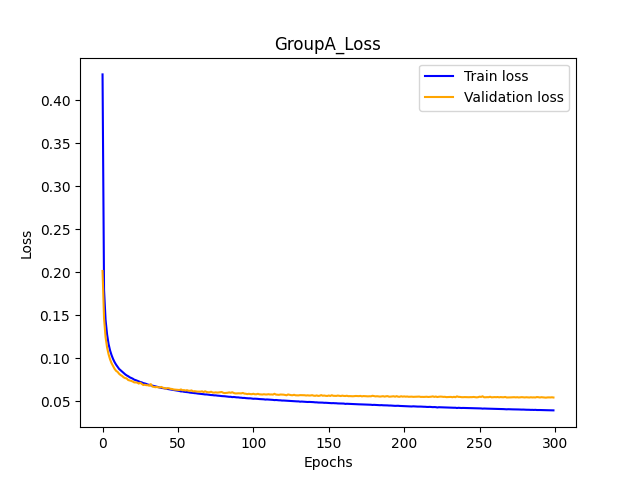
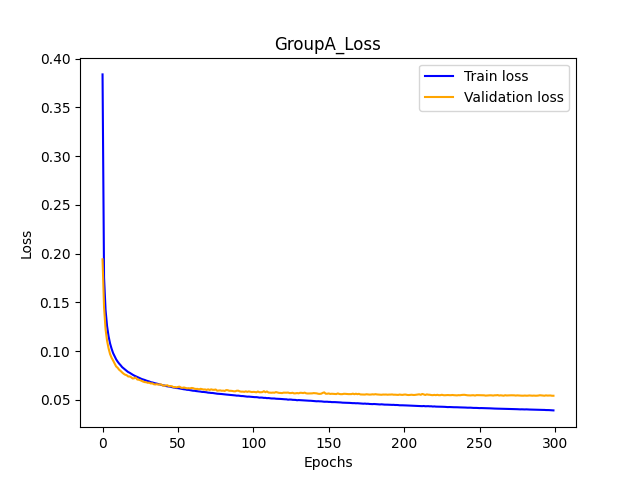
Save space for one-hot encoding

diff --git a/Lab2/GroupA/main.py b/Lab2/GroupA/main.py
@@ -5,13 +5,13 @@ import json
 TRAIN_FILE_PATH = './Group_A_train.csv'
 TEST_FILE_PATH = './Group_A_test.csv'
 OUTPUT_DIR = './output/'
-NUM_CLASSES = 10
+CLASSES = [0, 1, 8, 9]
 NUM_EPOCHS = 300
 BATCH_SIZE = 40
 
 class SoftmaxRegression:
     def __init__(self, input_size, num_classes, learning_rate=0.01):
-        self.W = np.random.randn(input_size, num_classes) * 0.01
+        self.W = np.zeros((input_size, num_classes))
         self.b = np.zeros((1, num_classes))
         self.learning_rate = learning_rate
         self.train_loss_history = []
@@ -119,7 +119,7 @@ def load_and_process_data(train_file, test_file):
 def label_to_one_hot(labels, num_classes):
     one_hot = np.zeros((labels.shape[0], num_classes))
     for idx, label in enumerate(labels):
-        one_hot[idx, label] = 1
+        one_hot[idx, CLASSES.index(label)] = 1
     return one_hot
 
 def split_data(x, y, train_ratio=0.8):
@@ -181,12 +181,12 @@ def save_final_results(results, predictions, filename='output.json'):
 if __name__ == '__main__':
     np.random.seed(123)
     x_train, y_train, x_test = load_and_process_data(TRAIN_FILE_PATH, TEST_FILE_PATH)
-    y_train_one_hot = label_to_one_hot(y_train, NUM_CLASSES)
+    y_train_one_hot = label_to_one_hot(y_train, len(CLASSES))
     x_train_split, y_train_split, x_val_split, y_val_split = split_data(x_train, y_train_one_hot, train_ratio=0.8)
 
     input_size = x_train.shape[1]
 
-    model = SoftmaxRegression(input_size, NUM_CLASSES, 0.01)
+    model = SoftmaxRegression(input_size, len(CLASSES), 0.01)
     model.train(x_train_split, y_train_split, x_val_split, y_val_split, NUM_EPOCHS, BATCH_SIZE)
 
     plot_draw(model.train_loss_history, model.val_loss_history, model.train_acc_history, model.val_acc_history)
@@ -197,6 +197,7 @@ if __name__ == '__main__':
     final_val_acc = model.val_acc_history[-1]
 
     predictions = model.predict(x_test).tolist()
+    predictions = [CLASSES[p] for p in predictions]  # 映射回原始標籤
 
     save_final_results({
         'learning_rate': model.learning_rate,
@@ -207,7 +208,3 @@ if __name__ == '__main__':
         'final_train_loss': final_train_loss,
         'final_val_loss': final_val_loss,
     }, predictions)
-
-
-
-

diff --git a/Lab2/GroupB/main.py b/Lab2/GroupB/main.py
@@ -5,13 +5,13 @@ import json
 TRAIN_FILE_PATH = './Group_B_train.csv'
 TEST_FILE_PATH = './Group_B_test.csv'
 OUTPUT_DIR = './output/'
-NUM_CLASSES = 10
+CLASSES = [0, 2, 4, 6]
 NUM_EPOCHS = 300
 BATCH_SIZE = 40
 
 class SoftmaxRegression:
     def __init__(self, input_size, num_classes, learning_rate=0.01):
-        self.W = np.random.randn(input_size, num_classes) * 0.01
+        self.W = np.zeros((input_size, num_classes))
         self.b = np.zeros((1, num_classes))
         self.learning_rate = learning_rate
         self.train_loss_history = []
@@ -119,7 +119,7 @@ def load_and_process_data(train_file, test_file):
 def label_to_one_hot(labels, num_classes):
     one_hot = np.zeros((labels.shape[0], num_classes))
     for idx, label in enumerate(labels):
-        one_hot[idx, label] = 1
+        one_hot[idx, CLASSES.index(label)] = 1
     return one_hot
 
 def split_data(x, y, train_ratio=0.8):
@@ -181,12 +181,12 @@ def save_final_results(results, predictions, filename='output.json'):
 if __name__ == '__main__':
     np.random.seed(123)
     x_train, y_train, x_test = load_and_process_data(TRAIN_FILE_PATH, TEST_FILE_PATH)
-    y_train_one_hot = label_to_one_hot(y_train, NUM_CLASSES)
+    y_train_one_hot = label_to_one_hot(y_train, len(CLASSES))
     x_train_split, y_train_split, x_val_split, y_val_split = split_data(x_train, y_train_one_hot, train_ratio=0.8)
 
     input_size = x_train.shape[1]
 
-    model = SoftmaxRegression(input_size, NUM_CLASSES, 0.01)
+    model = SoftmaxRegression(input_size, len(CLASSES), 0.01)
     model.train(x_train_split, y_train_split, x_val_split, y_val_split, NUM_EPOCHS, BATCH_SIZE)
 
     plot_draw(model.train_loss_history, model.val_loss_history, model.train_acc_history, model.val_acc_history)
@@ -197,6 +197,7 @@ if __name__ == '__main__':
     final_val_acc = model.val_acc_history[-1]
 
     predictions = model.predict(x_test).tolist()
+    predictions = [CLASSES[p] for p in predictions]  # 映射回原始標籤
 
     save_final_results({
         'learning_rate': model.learning_rate,
@@ -207,7 +208,3 @@ if __name__ == '__main__':
         'final_train_loss': final_train_loss,
         'final_val_loss': final_val_loss,
     }, predictions)
-
-
-
-
